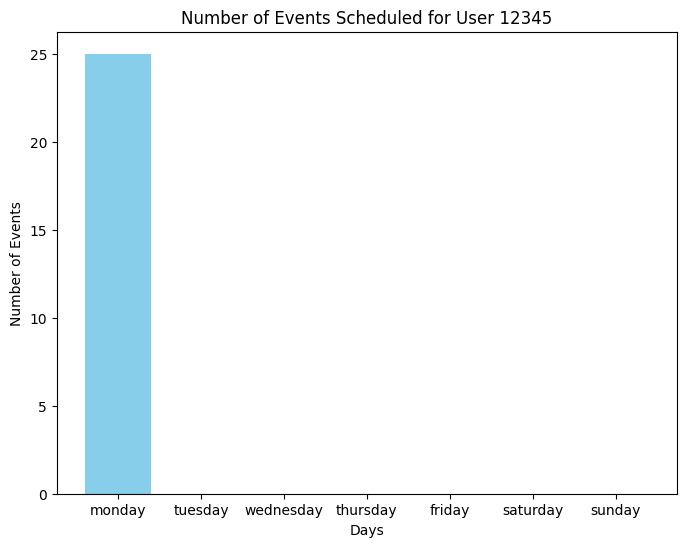
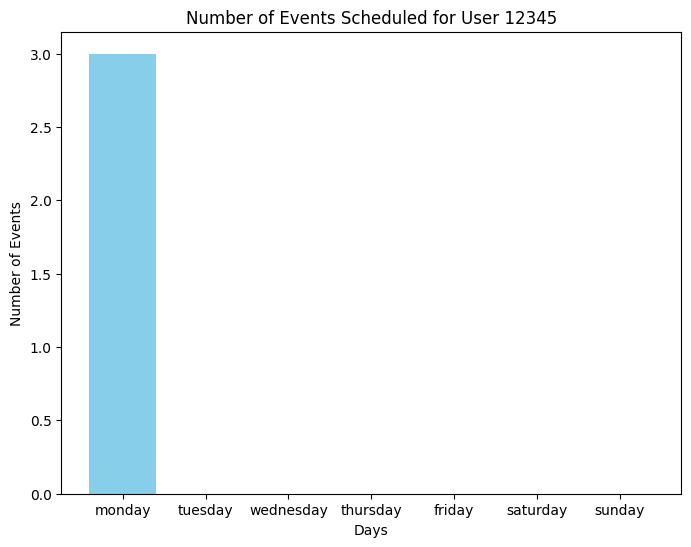
WRONG STRUCTURE DB
TABLE FOR EACH USER

diff --git a/USERS_DATA_DB_WORK_FILE.py b/USERS_DATA_DB_WORK_FILE.py
@@ -74,8 +74,27 @@ def add_event(user_id, day, time, event_name, notification_status=True):
     conn = sqlite3.connect(db_path)
     cursor = conn.cursor()
 
-    # Добавление события в нужный день
-    event = f'{time} - {event_name} - Notification: {notification_status}'
+    # Проверяем существование таблицы для пользователя
+    cursor.execute(f"SELECT name FROM sqlite_master WHERE type='table' AND name='user_{user_id}'")
+    if not cursor.fetchone():
+        print(f"Table for user {user_id} does not exist.")
+        conn.close()
+        return
+
+    # Получаем текущее значение для указанного дня
+    cursor.execute(f"SELECT {day} FROM user_{user_id} WHERE id = (SELECT MAX(id) FROM user_{user_id})")
+    current_schedule = cursor.fetchone()
+
+    if current_schedule and current_schedule[0]:
+        events = current_schedule[0].split(', ')
+        for event in events:
+            if event.startswith(time):
+                print(f"You have {event.split(' - ')[1]} at this time! Delete or move it first.")
+                conn.close()
+                return
+
+    # Добавляем событие, если конфликта нет
+    event = f"{time} - {event_name} - Notification: {notification_status}"
     cursor.execute(f'''
     UPDATE user_{user_id}
     SET {day} = COALESCE({day}, '') || ? || ', '
@@ -84,23 +103,7 @@ def add_event(user_id, day, time, event_name, notification_status=True):
 
     conn.commit()
     conn.close()
-
-
-# Функция для удаления события
-def remove_event(user_id, day, time, event_name):
-    conn = sqlite3.connect(db_path)
-    cursor = conn.cursor()
-
-    # Удаление события из таблицы
-    cursor.execute(f'''
-    UPDATE user_{user_id}
-    SET {day} = REPLACE({day}, ? || ', ', '')
-    WHERE id = (SELECT MAX(id) FROM user_{user_id}) AND {day} LIKE ?
-    ''', (f'{time} - {event_name}', f'%{time} - {event_name}%'))
-
-    conn.commit()
-    conn.close()
-
+    print(f"Event '{event_name}' added successfully for {day} at {time}.")
 
 def list_user_tables():
     conn = sqlite3.connect(db_path)
@@ -143,7 +146,8 @@ def view_user_table(user_id):
 
 
 # Функция для создания графика статистики запланированных событий по дням недели
-def stats(user_id, day="ALL"):
+def stats(user_id, day="ALL", theme="white"):
+    unique_timestamp = datetime.now().strftime("%Y%m%d%H%M%S%f")  # stating unique timestamp
     conn = sqlite3.connect(db_path)
     cursor = conn.cursor()
 
@@ -176,7 +180,20 @@ def stats(user_id, day="ALL"):
 
     # Рисование графика
     fig, ax = plt.subplots(figsize=(8, 6))
-    ax.bar(events_count.keys(), events_count.values(), color='skyblue')
+
+    if theme == "black":
+        ax.set_facecolor("black")
+        fig.patch.set_facecolor("black")
+        ax.tick_params(colors="white")
+        ax.spines[:].set_color("white")
+        ax.xaxis.label.set_color("white")
+        ax.yaxis.label.set_color("white")
+        ax.title.set_color("white")
+        bar_color = "lightblue"
+    else:
+        bar_color = "skyblue"
+
+    ax.bar(events_count.keys(), events_count.values(), color=bar_color)
     ax.set_title(f"Number of Events Scheduled for User {user_id}")
     ax.set_xlabel("Days")
     ax.set_ylabel("Number of Events")
@@ -184,18 +201,22 @@ def stats(user_id, day="ALL"):
     # Сохранение графика
     timestamp = row[2]
     username = row[1]
-    graph_filename = f"{pic_path}/{username}_{user_id}_{timestamp}_stats.png"
+    graph_filename = f"{pic_path}/{username}_{user_id}_{timestamp}_{unique_timestamp}_stats.png"
     plt.savefig(graph_filename, bbox_inches='tight', pad_inches=0.1)
     plt.close()
 
     conn.close()
 
+
 # Пример использования:
 new_table('user1', 12345)
 add_event(12345, 'monday', '08:00', 'Wake up', True)
 add_event(12345, 'monday', '18:00', 'Dinner', True)
-stats(12345, 'ALL')  # Рисует график для всех дней
-#stats(12345, 'monday')  # Рисует график для понедельника
+add_event(12345, 'monday', '20:00', 'TV Show', True)
+add_event(12345, 'tuesday', '08:00', 'Wake up', True)
+stats(12345, 'ALL', "black")  # Рисует график для всех дней
+stats(12345, 'monday')  # Рисует график для понедельника
 list_user_tables()
 view_user_table(12345)
-remove_table(12345)
+
+#remove_table(12345)
